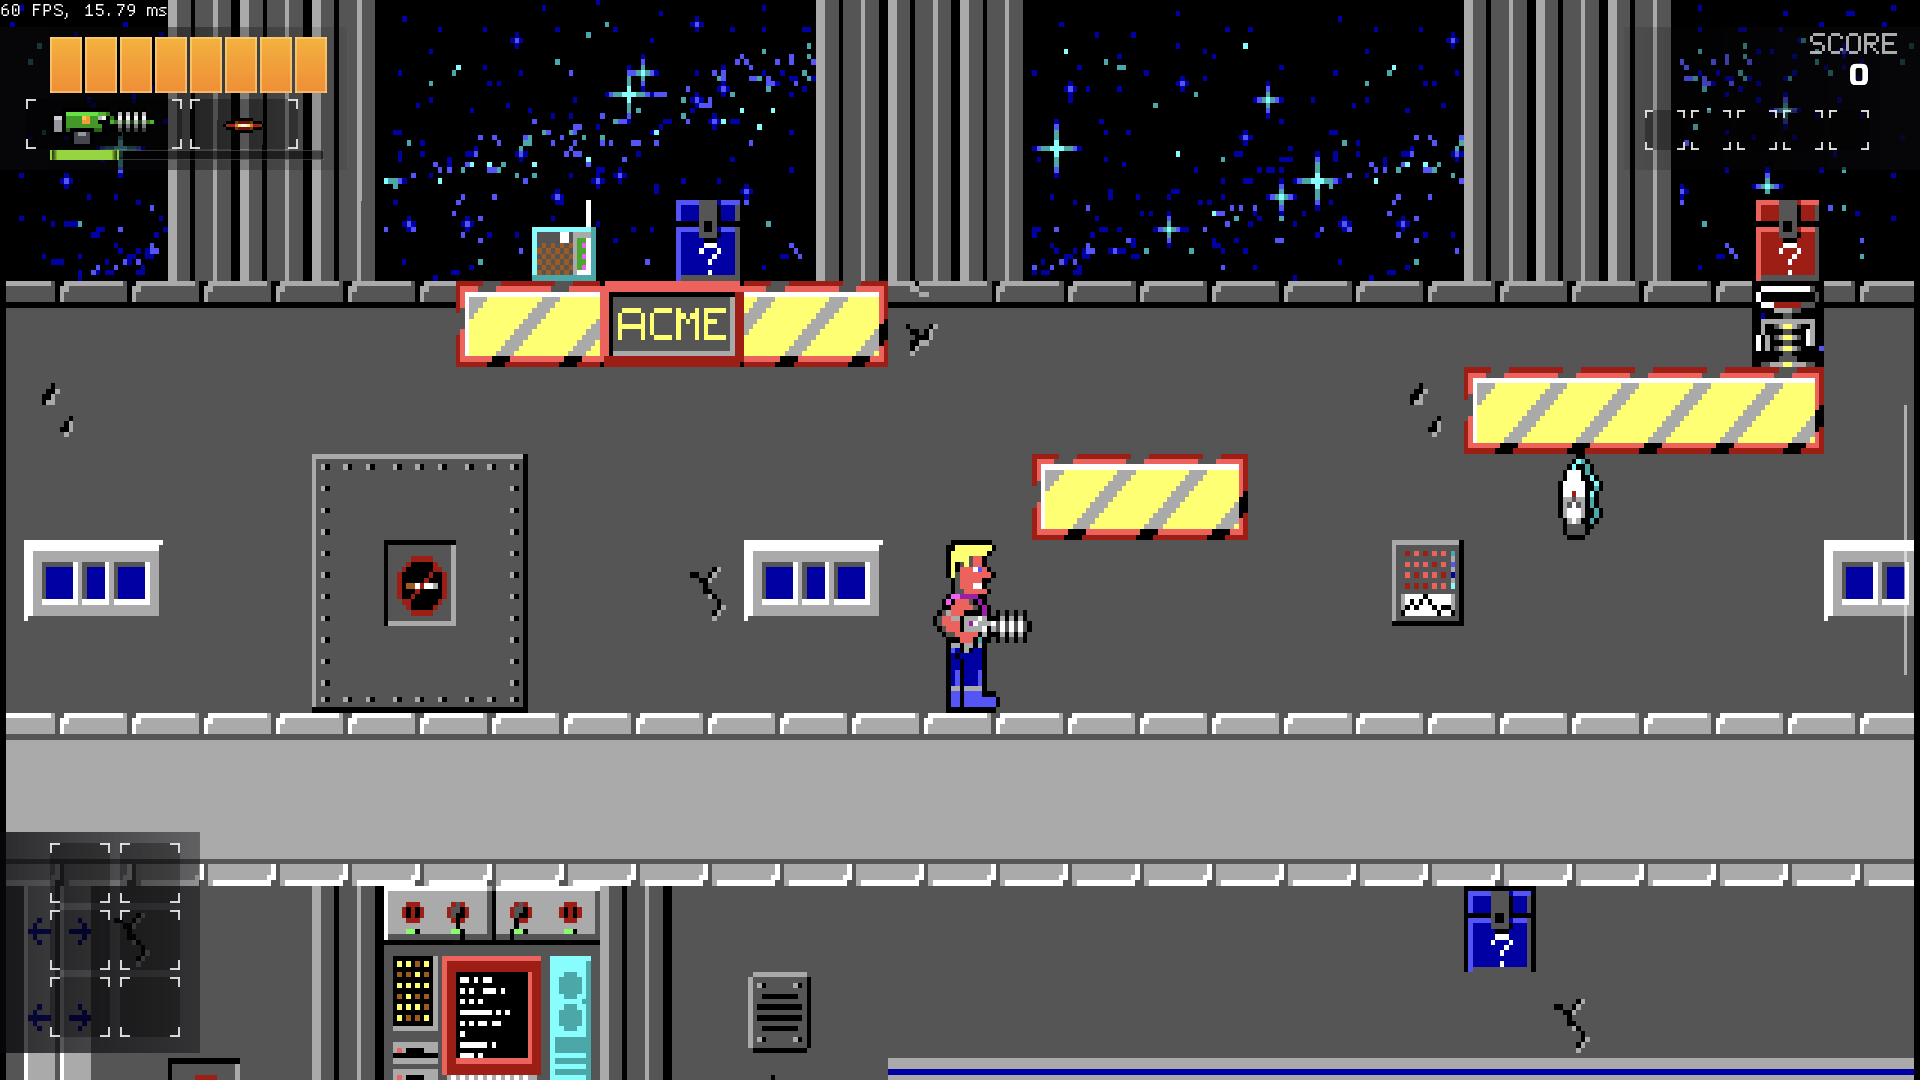
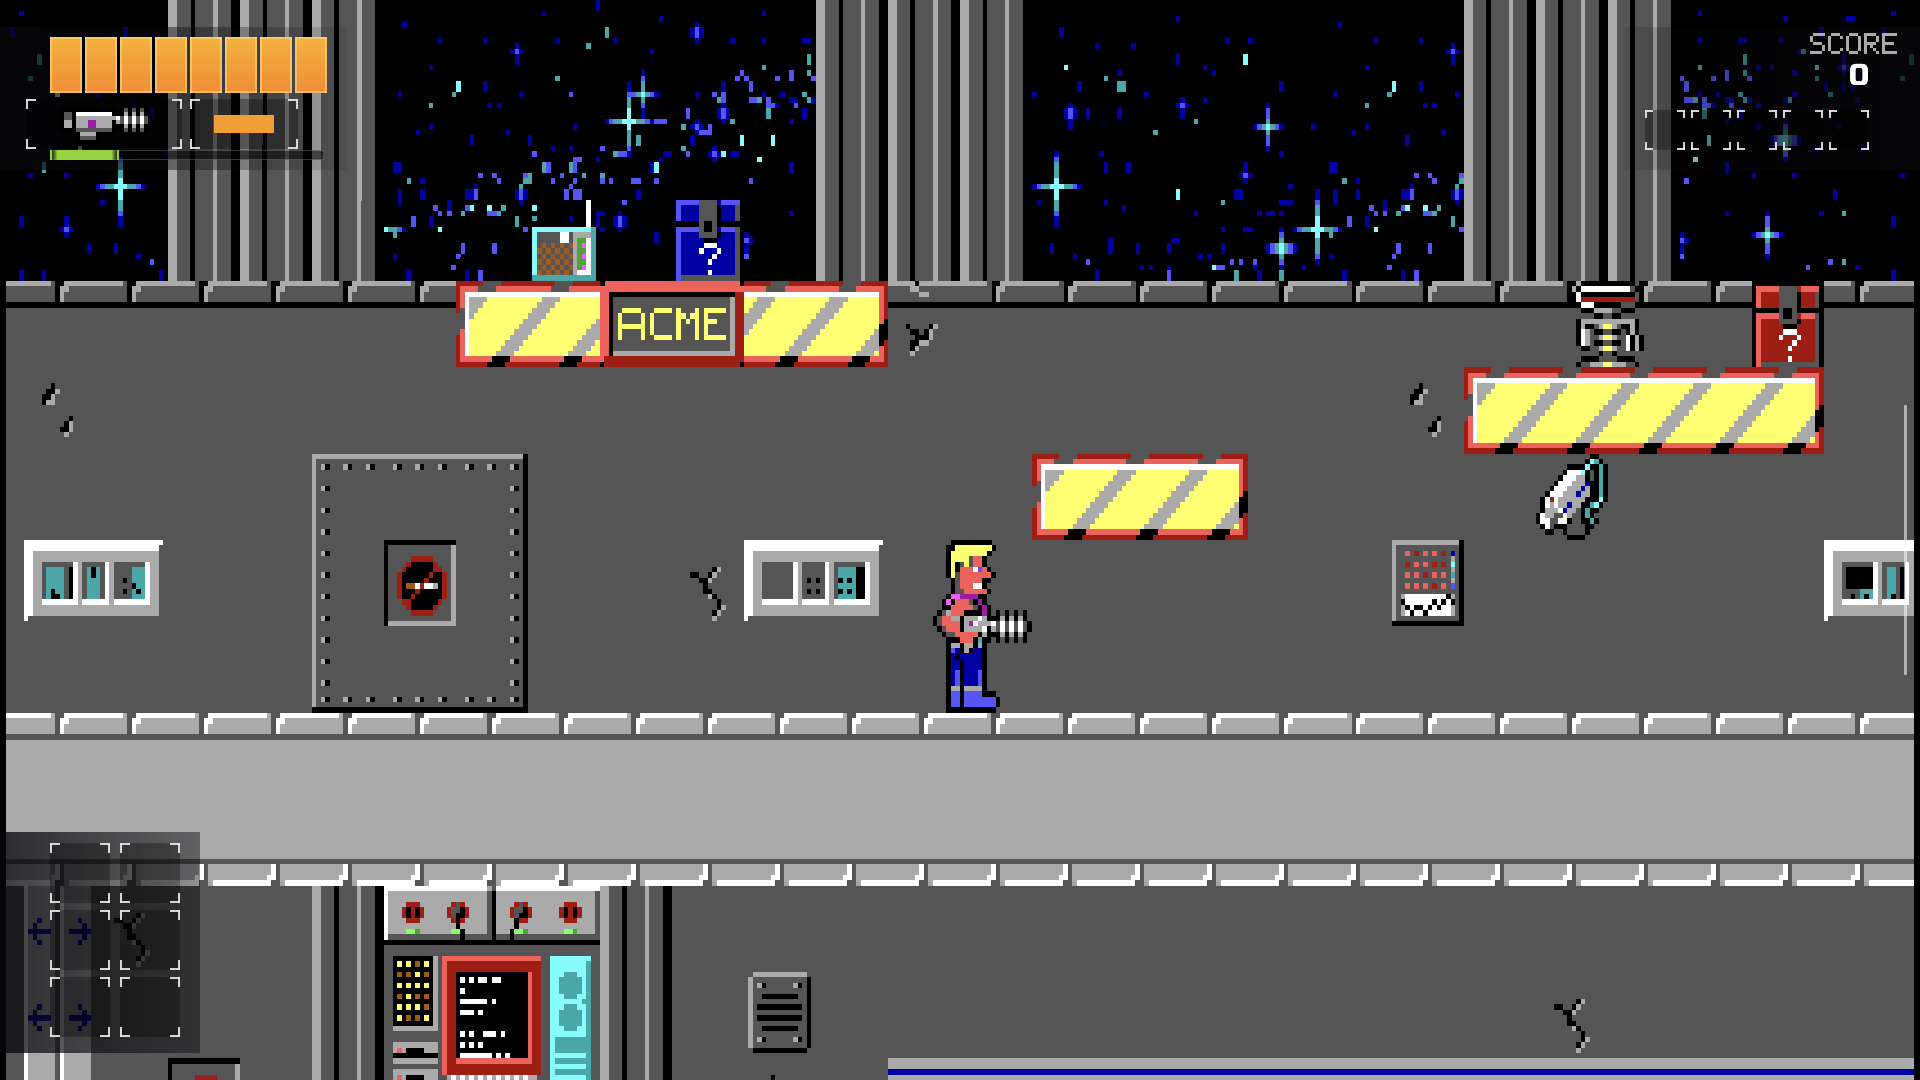
Draw Duke 1's own gun in the HUD, document DN1 without DN2, new screenshots
The weapon slot uses the barrel from Duke's standing sprite and a drawn
receiver, end cap and grip. The FPS counter is off by default on Android
and F6 saves the setting. The folder chooser accepts Duke 1 data. README
no longer says Duke Nukem II data is required.

diff --git a/src/frontend/duke1_mode.cpp b/src/frontend/duke1_mode.cpp
@@ -67,6 +67,19 @@ const std::string& Duke1Mode::lastLookupProblem()
 }
 
 
+std::optional<std::filesystem::path>
+  Duke1Mode::findDataDirIn(const std::filesystem::path& gamePath)
+{
+  const auto previous = gGamePath;
+  const auto previousProblem = gLookupProblem;
+  gGamePath = gamePath;
+  const auto result = findDataDir();
+  gGamePath = previous;
+  gLookupProblem = previousProblem;
+  return result;
+}
+
+
 std::optional<std::filesystem::path> Duke1Mode::findDataDir()
 {
   if (gGamePath.empty())
@@ -418,6 +431,71 @@ void Duke1Mode::handleEvent(const SDL_Event& event)
 }
 
 
+ui::HudArt Duke1Mode::duke1HudArt() const
+{
+  // In the game Duke's hand covers the rear half of his gun. The barrel is cut
+  // out of his standing sprite; the receiver, end cap and grip that his hand
+  // hides are drawn in the same style and palette.
+  constexpr int BARREL_X = 22;
+  constexpr int BARREL_Y = 13;
+  constexpr int BARREL_W = 10;
+  constexpr int BARREL_H = 6;
+
+  // clang-format off
+  static const char* const REAR[] = {
+    "..............",
+    ".AAAAAAAAAAAAA",
+    ".ADDAGGGGGGGGG",
+    ".ADDAFFFFFFFFF",
+    ".AFFAFFFEEFFFF",
+    ".AFFAFFFEEFFFF",
+    ".AAAADDDDDDDDD",
+    ".....AFFFFA...",
+    ".....ADDDDA...",
+    ".....AAAAAA..."};
+  // clang-format on
+  constexpr int REAR_W = 14;
+  constexpr int GRID_W = REAR_W + BARREL_W;
+  constexpr int GRID_H = 10;
+
+  const auto colorFor = [](const char c) {
+    switch (c)
+    {
+      case 'A': return base::Color{0, 0, 0, 255};
+      case 'D': return base::Color{85, 85, 85, 255};
+      case 'F': return base::Color{170, 170, 170, 255};
+      case 'G': return base::Color{255, 255, 255, 255};
+      case 'E': return base::Color{170, 0, 170, 255};
+      default: return base::Color{0, 0, 0, 0};
+    }
+  };
+
+  const auto portrait = mpWorld->standingPortrait();
+  data::PixelBuffer pixels(std::size_t(GRID_W) * GRID_H, base::Color{0, 0, 0, 0});
+  for (int y = 0; y < GRID_H; ++y)
+  {
+    for (int x = 0; x < REAR_W; ++x)
+    {
+      pixels[std::size_t(y) * GRID_W + std::size_t(x)] = colorFor(REAR[y][x]);
+    }
+  }
+  for (int y = 0; y < BARREL_H; ++y)
+  {
+    for (int x = 0; x < BARREL_W; ++x)
+    {
+      const auto k =
+        (std::size_t(BARREL_Y + y) * 32 + std::size_t(BARREL_X + x)) * 4;
+      pixels[std::size_t(1 + y) * GRID_W + std::size_t(REAR_W + x)] =
+        base::Color{portrait[k], portrait[k + 1], portrait[k + 2], portrait[k + 3]};
+    }
+  }
+
+  ui::HudArt art;
+  art.mGun = data::Image{std::move(pixels), GRID_W, GRID_H};
+  return art;
+}
+
+
 void Duke1Mode::submitOverlayHud()
 {
   const auto tier =
@@ -429,7 +507,7 @@ void Duke1Mode::submitOverlayHud()
     if (!mHudSkin && !mGeneratedHudSkin)
     {
       mGeneratedHudSkin = ui::HudSkin::generateDefault(
-        mContext.mpRenderer, ui::HudArt{});
+        mContext.mpRenderer, duke1HudArt());
     }
     mHudSkinTierTried = tier;
   }

diff --git a/src/ui/options_menu.cpp b/src/ui/options_menu.cpp
@@ -31,6 +31,7 @@
 #include "renderer/upscaling.hpp"
 #include "sdl_utils/key_code.hpp"
 #include "sdl_utils/platform.hpp"
+#include "frontend/duke1_mode.hpp"
 #include "ui/credits.hpp"
 #include "ui/hud_renderer.hpp"
 #include "ui/menu_navigation.hpp"
@@ -243,7 +244,7 @@ OptionsMenu::OptionsMenu(
   , mType(type)
   , mIsRunningInDesktopEnvironment(sdl_utils::isRunningInDesktopEnvironment())
 {
-  mGamePathBrowser.SetTitle("Choose Duke Nukem II installation");
+  mGamePathBrowser.SetTitle("Choose game data folder");
 }
 
 
@@ -956,7 +957,9 @@ void OptionsMenu::updateAndRender(engine::TimeDelta dt)
     if (mGamePathBrowser.HasSelected())
     {
       const auto newGamePath = mGamePathBrowser.GetSelected();
-      if (fs::exists(newGamePath / "NUKEM2.CMP"))
+      if (
+        fs::exists(newGamePath / "NUKEM2.CMP") ||
+        Duke1Mode::findDataDirIn(newGamePath))
       {
         mGamePathBrowser.Close();
         mpServiceProvider->switchGamePath(newGamePath);
@@ -975,7 +978,7 @@ void OptionsMenu::updateAndRender(engine::TimeDelta dt)
     if (ImGui::BeginPopupModal("Error", &mShowErrorBox, flags))
     {
       ImGui::TextUnformatted(
-        "No game data (file NUKEM2.CMP) found at chosen path!");
+        "No game data (NUKEM2.CMP or Duke Nukem 1 files) found at chosen path!");
       if (ImGui::Button("Ok"))
       {
         mShowErrorBox = false;
@@ -1087,7 +1090,7 @@ void OptionsMenu::drawGamePathChooser(const ImVec2& sizeToUse)
   }
 
   ImGui::NewLine();
-  if (ImGui::Button("Choose Duke Nukem II installation"))
+  if (ImGui::Button("Choose game data folder"))
   {
     if (mpUserProfile->mGamePath)
     {

diff --git a/src/frontend/duke1_mode.hpp b/src/frontend/duke1_mode.hpp
@@ -27,6 +27,7 @@
 #include "ui/console_menu.hpp"
 #include "ui/console_results.hpp"
 #include "ui/hud_skin.hpp"
+#include "ui/hud_skin_generator.hpp"
 #include "ui/menu_navigation.hpp"
 
 #include <array>
@@ -64,6 +65,10 @@ public:
   /** Where the DOS data lives relative to the game path, if present */
   static std::optional<std::filesystem::path> findDataDir();
 
+  /** Like findDataDir(), for a folder that is not (yet) the game path */
+  static std::optional<std::filesystem::path>
+    findDataDirIn(const std::filesystem::path& gamePath);
+
   /** Human readable reason for the most recent findDataDir() failure */
   static const std::string& lastLookupProblem();
   static std::vector<int>
@@ -74,6 +79,7 @@ private:
 
   void handleEvent(const SDL_Event& event);
   void submitOverlayHud();
+  ui::HudArt duke1HudArt() const;
 
   Context mContext;
   std::filesystem::path mDataDir;

diff --git a/src/duke1/play.cpp b/src/duke1/play.cpp
@@ -1013,6 +1013,27 @@ void PlayWorld::renderWorld(
 namespace duke1
 {
 
+std::vector<std::uint8_t> PlayWorld::standingPortrait() const
+{
+  std::vector<std::uint8_t> out(32 * 32 * 4, 0);
+  const int offs[4][2] = {{0, 0}, {16, 0}, {0, 16}, {16, 16}};
+  for (int i = 0; i < 4; ++i)
+  {
+    const auto idx = static_cast<std::size_t>(4 + i);
+    if (idx >= man_[1].tiles.size())
+      continue;
+    const auto rgba = man_[1].tiles[idx].rgba();
+    for (int y = 0; y < 16; ++y)
+      for (int x = 0; x < 16; ++x)
+        for (int c = 0; c < 4; ++c)
+          out[(static_cast<std::size_t>(offs[i][1] + y) * 32 +
+               static_cast<std::size_t>(offs[i][0] + x)) * 4 + c] =
+            rgba[(static_cast<std::size_t>(y) * 16 + static_cast<std::size_t>(x)) * 4 + c];
+  }
+  return out;
+}
+
+
 PlayWorld::BonusReport PlayWorld::bonusReport() const
 {
   BonusReport r;

diff --git a/src/ui/hud_skin_generator.cpp b/src/ui/hud_skin_generator.cpp
@@ -700,6 +700,22 @@ GeneratedHudAtlas generateDefaultHudAtlas(const HudArt& art)
       for (auto i = 0; i <= WeaponLast - WeaponFirst; ++i)
       {
         const auto& r = R(WeaponFirst + i);
+        if (art.mGun)
+        {
+          constexpr auto gunScale = 4;
+          const auto w = int(art.mGun->width());
+          const auto h = int(art.mGun->height());
+          c.blitCropScaled(
+            *art.mGun,
+            0,
+            0,
+            w,
+            h,
+            r.x + (r.w - w * gunScale) / 2,
+            r.y + (r.h - h * gunScale) / 2,
+            gunScale);
+          continue;
+        }
         constexpr auto gridW = 29;
         constexpr auto gridH = 10;
         constexpr auto scale = 4;

diff --git a/src/data/game_options.hpp b/src/data/game_options.hpp
@@ -128,11 +128,7 @@ struct GameOptions
   bool mEnableVsync = ENABLE_VSYNC_DEFAULT;
   bool mEnableFpsLimit = true; // Only relevant when mEnableVsync == false
   int mMaxFps = 60; // Only relevant when mEnableFpsLimit == true
-#ifdef __ANDROID__
-  bool mShowFpsCounter = true; // dev builds only
-#else
   bool mShowFpsCounter = false;
-#endif
   bool mEnableScreenFlashes = true;
   UpscalingFilter mUpscalingFilter = UpscalingFilter::None;
   bool mAspectRatioCorrectionEnabled = true;

diff --git a/src/duke1/play.hpp b/src/duke1/play.hpp
@@ -159,6 +159,8 @@ public:
                      [static_cast<std::size_t>(kPiece[i - 4] % 50)];
     return sprites_[8][static_cast<std::size_t>(24 + i)];
   }
+  // 32x32 RGBA picture of Duke standing and facing right
+  std::vector<std::uint8_t> standingPortrait() const;
   // Draws the collected keys into the given area of an RGBA frame (inventory)
   void drawInventory(std::vector<std::uint8_t>& out, int w, int h, int x, int y)
     const;

diff --git a/src/ui/hud_skin_generator.hpp b/src/ui/hud_skin_generator.hpp
@@ -53,6 +53,10 @@ struct HudArt
   /** First frame of the player facing right, for the gun in the weapon slot */
   std::optional<data::Image> mPlayerSprite;
 
+  /** A ready-made picture of the gun, used instead of building one from the
+   * player sprite */
+  std::optional<data::Image> mGun;
+
   /** The 32x16 projectile icons of the four weapons */
   std::array<std::optional<data::Image>, 4> mProjectiles;
 

diff --git a/src/frontend/game.cpp b/src/frontend/game.cpp
@@ -482,6 +482,7 @@ bool Game::handleEvent(const SDL_Event& event)
       if (event.key.keysym.sym == SDLK_F6)
       {
         options.mShowFpsCounter = !options.mShowFpsCounter;
+        mpUserProfile->saveToDisk();
       }
       else if (event.key.keysym.sym == SDLK_F12)
       {

diff --git a/src/game_main.cpp b/src/game_main.cpp
@@ -81,8 +81,7 @@ bool isValidGamePath(const std::filesystem::path& path)
   }
 
   // Duke Nukem 1 can be played on its own
-  Duke1Mode::setGamePath(path);
-  return Duke1Mode::findDataDir().has_value();
+  return Duke1Mode::findDataDirIn(path).has_value();
 }
 
 

diff --git a/README.md b/README.md
@@ -20,11 +20,11 @@ and usability improvements, including:
 
 <img src="docs/screenshots/duke-nukem-1-overlay.png" alt="Duke Nukem I in this fork with the modern overlay HUD" width="700"/>
 
-*Duke Nukem I with the modern overlay HUD.*
+*Duke Nukem I with the modern overlay HUD (Retroid Pocket G2).*
 
 <img src="docs/screenshots/duke-nukem-2-overlay.png" alt="Duke Nukem II in this fork with the modern overlay HUD" width="700"/>
 
-*Duke Nukem II with the modern overlay HUD.*
+*Duke Nukem II with the modern overlay HUD (Retroid Pocket G2).*
 
 The original games did not have publicly released source code. Their behaviour is studied
 through reverse engineering of the DOS executables and comparison with the original games.
@@ -84,15 +84,17 @@ For work specific to this fork, see the [pull requests](https://github.com/shimi
 Supply your own original DOS game files. Duke Nukem I supports shareware episode 1 and
 all three registered episodes; Duke Nukem II supports shareware and registered data.
 
-For **Duke Nukem I**, place its episode EXEs and matching data files together in a directory
-named `DN1`. For **Duke Nukem II**, use the directory containing `NUKEM2.CMP`.
+You only need the files for the game or games you want to play. Duke Nukem I does not
+need any Duke Nukem II data, and Duke Nukem II does not need Duke Nukem I's. If a game's
+files are missing, its entry in the launcher is greyed out.
 
-**Temporary setup limitation:** playing Duke Nukem I currently also requires selecting
-a Duke Nukem II data directory at startup. Place `DN1` inside or beside that directory.
-The launcher also recognizes `DN1-full/pc` in either location, or DN1 files stored directly
-in the selected directory. Removing this dependency is being handled separately.
+For **Duke Nukem I**, place its episode EXEs and matching data files together in a directory.
+For **Duke Nukem II**, use the directory containing `NUKEM2.CMP`. At first launch (or via
+Options > Choose game data folder) select the folder that holds the games. The launcher
+looks for Duke Nukem I files in a `DN1` folder inside it or beside it, in `DN1-full/pc` in
+either location, or directly in the selected folder.
 
-For example:
+For example, with both games installed:
 
 ```text
 Games/
@@ -111,11 +113,12 @@ Games/
     NUKEM2.F1       (optional intro movies, through .F5)
 ```
 
-In this example, choose the `Duke2` folder containing `NUKEM2.CMP` in the first-launch
-file browser; the launcher finds `DN1` beside it. These are example paths, not required
-folder names apart from the DN1 discovery locations described above. The selected path
-is saved in your user profile. Desktop builds also accept it on the command line.
-On Android, store the files in a location accessible to the app.
+Choose `Games/Duke2` (or `Games`) in the file browser; the launcher finds `DN1` beside it.
+To play only Duke Nukem I, choose the folder that contains `DN1`, or the `DN1` folder
+itself. Without Duke Nukem II's data there is no Duke Nukem II menu music, since Duke
+Nukem I's level songs are borrowed from it; Duke Nukem I's own sound effects are unaffected.
+The selected path is saved in your user profile. Desktop builds also accept it on the
+command line. On Android, store the files in a location accessible to the app.
 
 ### Acquiring the game data
 
